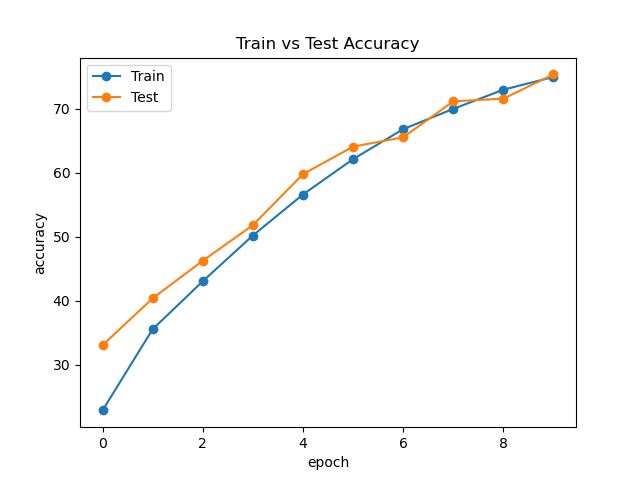
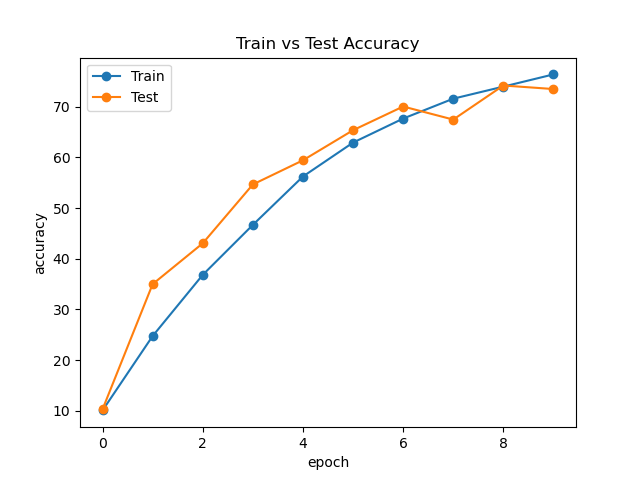
Sharpness Aware Minimization Added

diff --git a/trainAndTestWithSAM.py b/trainAndTestWithSAM.py
@@ -3,7 +3,7 @@ import torch
 import torch.nn as nn
 from plot import trainTestPlot
 from SAM import SAM
-from optimizer import CosineAnnealingLR, CyclicLR
+from optimizer import CosineAnnealingLR, CyclicLR, WarmupCosineSchedule
 device = torch.device('cuda' if torch.cuda.is_available() else 'cpu')
 
 class TrainingWithSAM:
@@ -32,9 +32,8 @@ class TrainingWithSAM:
             self.optimizer = torch.optim.Adam
             
         
-        optimizer = SAM(self.model.parameters(), base_optimizer=self.optimizer, lr=0.1, momentum=0.9)
-        #scheduler = CyclicLR(optimizer, base_lr=1e-06, max_lr=0.1, step_size_up=50, mode='triangular2')
-        scheduler = CosineAnnealingLR(optimizer, T_max=200)
+        optimizer = SAM(self.model.parameters(), base_optimizer=self.optimizer, lr=1, momentum=0.9, weight_decay=0.0001)
+        scheduler = CyclicLR(optimizer, base_lr=1e-06, max_lr=0.1, step_size_up=50, mode='triangular2')
         train_losses = []
         train_accu = []
         test_losses = []

diff --git a/SAM.py b/SAM.py
@@ -5,6 +5,16 @@ From paper:
 
 - Sharpness-Aware Minimization for Efficiently Improving Generalization
 - ASAM: Adaptive Sharpness-Aware Minimization for Scale-Invariant Learning of Deep Neural Networks
+
+Idea behind SAM (Sharpness Aware Minimization):
+
+- Its motivation comes from the relation between the landscape of the loss function and generalization.
+- A regular model finds a parameter W with low training loss value but with SAM, it finds parameter
+whose neighborhood of parameters have uniformly low training loss value.
+- It improves model generalization by simultaneously minimizing loss value and loss sharpness.
+- It seeks parameters that lie in neighborhood having uniformly low loss value.
+- 
+
 """
 import torch
 

diff --git a/README.md b/README.md
@@ -453,10 +453,8 @@ Find all the basic and necessary details about the different architecture below.
     when those blocks are combined together to make a single block.
 
 <img src="https://towardsdatascience.com/review-resnext-1st-runner-up-of-ilsvrc-2016-image-classification-15d7f17b42ac" alt='RexNeXt Blog'>
-
-</p>  
-  <img src="Images/resnext.png" alt="ResNeXt">
-  
+<img src="Images/resnext.png" alt="ResNeXt">
+</p>   
 </details>
 <details>
   <summary>🔥 ViT</summary>
